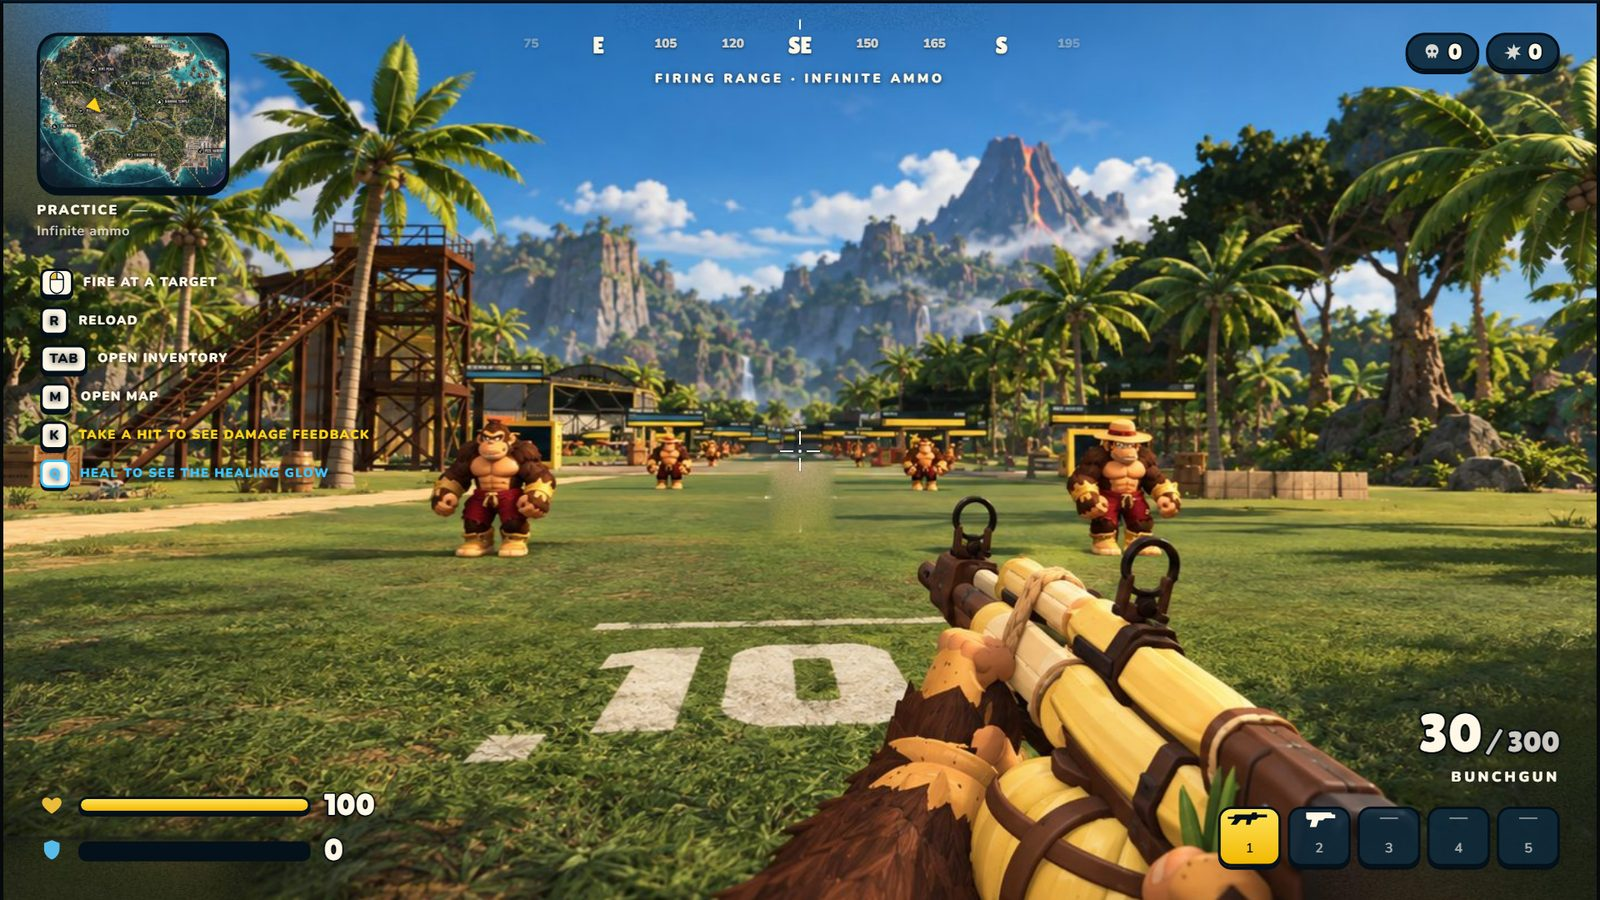
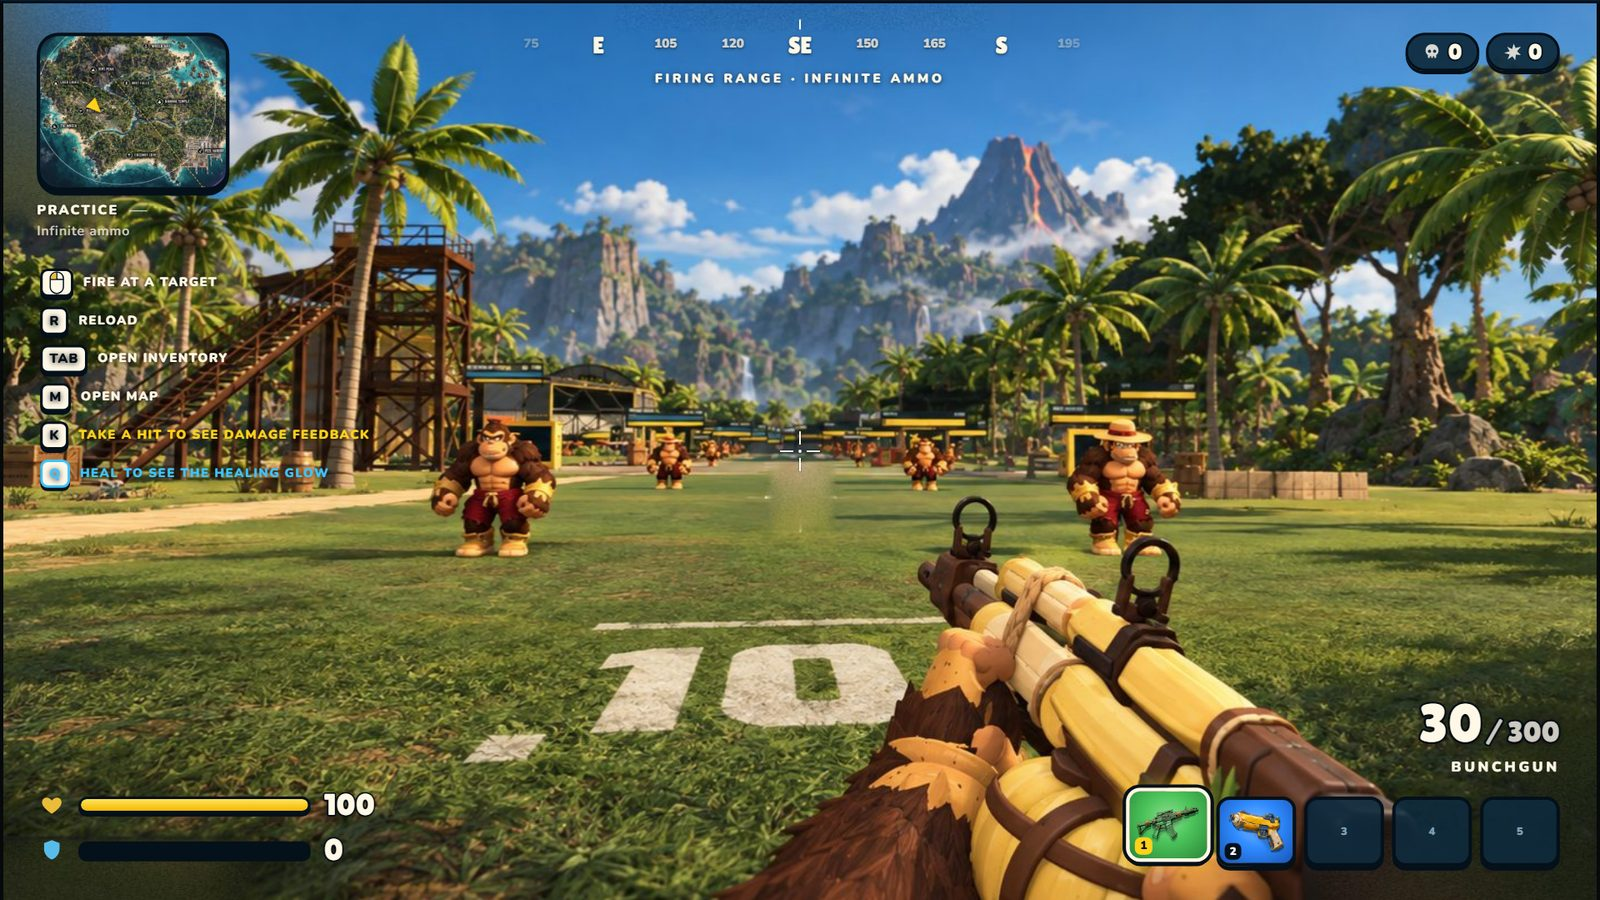
Toon HUD weapon slots show item art on rarity colours
Like the original HUD: each slot shows the weapon's art on a green
(common) or blue (rare) tile; the equipped slot lifts with an ivory
outline, yellow glow and yellow number chip. Premium keeps its line
icons. Design system docs, the Codex bundle and Toon screens updated.

Changed region(s): [[0.6875, 0.7778, 1.0, 0.9644]]

diff --git a/css/toon.css b/css/toon.css
@@ -346,3 +346,17 @@ html[data-ds="toon"] .stage .rp-send .k-btn.primary { font-size: 34px; }
 .topbar-nav { flex-wrap: nowrap; }
 @media (max-width: 900px) { .topbar { flex-wrap: wrap; } .topbar-nav { flex-wrap: wrap; } }
 .ds-switch select { padding: 5px 8px; }
+
+/* HUD weapon slots: item art on a rarity-coloured tile, like the original HUD */
+html[data-ds="toon"] .stage .slots { gap: 10px; align-items: flex-end; }
+html[data-ds="toon"] .stage .slot { position: relative; width: 96px; height: 84px; padding: 0; display: block; overflow: hidden;
+  border: 4px solid var(--o); border-radius: 16px; box-shadow: 0 5px 0 var(--o); background: rgba(14,42,61,.88);
+  transition: transform 160ms var(--kong-ease), box-shadow 160ms; }
+html[data-ds="toon"] .stage .slot.r-common { background: radial-gradient(ellipse 70% 80% at 50% 40%, #8BE08F 0%, #4CC35A 45%, #2C8A3A 100%); }
+html[data-ds="toon"] .stage .slot.r-rare { background: radial-gradient(ellipse 70% 80% at 50% 40%, #7FB8FF 0%, #2F8BFF 45%, #1A56B8 100%); }
+html[data-ds="toon"] .stage .slot .ic { display: none; }
+html[data-ds="toon"] .stage .slot .slot-art { display: block; position: absolute; left: 6px; right: 6px; top: 8px; bottom: 16px; width: calc(100% - 12px); height: calc(100% - 24px); object-fit: contain; filter: drop-shadow(0 3px 0 rgba(4,16,26,.55)); }
+html[data-ds="toon"] .stage .slot .slot-n { position: absolute; left: 6px; bottom: 4px; min-width: 20px; height: 20px; padding: 0 5px; border-radius: 7px; background: var(--o); color: #fff; font: 900 13px/20px var(--k-ui); text-align: center; }
+html[data-ds="toon"] .stage .slot.empty .slot-n { left: 50%; transform: translateX(-50%); bottom: 50%; margin-bottom: -10px; background: transparent; color: #7FA3BC; }
+html[data-ds="toon"] .stage .slot.on { background-color: transparent; color: inherit; transform: translateY(-8px) scale(1.06); border-color: #FFF8E7; box-shadow: 0 5px 0 var(--o), 0 0 0 4px var(--o), 0 0 22px rgba(255,210,26,.7); }
+html[data-ds="toon"] .stage .slot.on .slot-n { background: var(--kong-accent); color: var(--o); }

diff --git a/design/kong-toon/reference/toon-prototype.css b/design/kong-toon/reference/toon-prototype.css
@@ -346,3 +346,17 @@ html[data-ds="toon"] .stage .rp-send .k-btn.primary { font-size: 34px; }
 .topbar-nav { flex-wrap: nowrap; }
 @media (max-width: 900px) { .topbar { flex-wrap: wrap; } .topbar-nav { flex-wrap: wrap; } }
 .ds-switch select { padding: 5px 8px; }
+
+/* HUD weapon slots: item art on a rarity-coloured tile, like the original HUD */
+html[data-ds="toon"] .stage .slots { gap: 10px; align-items: flex-end; }
+html[data-ds="toon"] .stage .slot { position: relative; width: 96px; height: 84px; padding: 0; display: block; overflow: hidden;
+  border: 4px solid var(--o); border-radius: 16px; box-shadow: 0 5px 0 var(--o); background: rgba(14,42,61,.88);
+  transition: transform 160ms var(--kong-ease), box-shadow 160ms; }
+html[data-ds="toon"] .stage .slot.r-common { background: radial-gradient(ellipse 70% 80% at 50% 40%, #8BE08F 0%, #4CC35A 45%, #2C8A3A 100%); }
+html[data-ds="toon"] .stage .slot.r-rare { background: radial-gradient(ellipse 70% 80% at 50% 40%, #7FB8FF 0%, #2F8BFF 45%, #1A56B8 100%); }
+html[data-ds="toon"] .stage .slot .ic { display: none; }
+html[data-ds="toon"] .stage .slot .slot-art { display: block; position: absolute; left: 6px; right: 6px; top: 8px; bottom: 16px; width: calc(100% - 12px); height: calc(100% - 24px); object-fit: contain; filter: drop-shadow(0 3px 0 rgba(4,16,26,.55)); }
+html[data-ds="toon"] .stage .slot .slot-n { position: absolute; left: 6px; bottom: 4px; min-width: 20px; height: 20px; padding: 0 5px; border-radius: 7px; background: var(--o); color: #fff; font: 900 13px/20px var(--k-ui); text-align: center; }
+html[data-ds="toon"] .stage .slot.empty .slot-n { left: 50%; transform: translateX(-50%); bottom: 50%; margin-bottom: -10px; background: transparent; color: #7FA3BC; }
+html[data-ds="toon"] .stage .slot.on { background-color: transparent; color: inherit; transform: translateY(-8px) scale(1.06); border-color: #FFF8E7; box-shadow: 0 5px 0 var(--o), 0 0 0 4px var(--o), 0 0 22px rgba(255,210,26,.7); }
+html[data-ds="toon"] .stage .slot.on .slot-n { background: var(--kong-accent); color: var(--o); }

diff --git a/index.html b/index.html
@@ -7,9 +7,9 @@
 <link rel="preconnect" href="https://fonts.googleapis.com">
 <link rel="preconnect" href="https://fonts.gstatic.com" crossorigin>
 <link rel="stylesheet" href="https://fonts.googleapis.com/css2?family=Changa+One:ital@0;1&family=Lilita+One&family=Nunito:wght@600;700;800;900&family=Barlow:wght@400;500;600;700&family=Barlow+Semi+Condensed:wght@500;600;700&family=JetBrains+Mono:wght@400;500&display=swap">
-<link rel="stylesheet" href="css/site.css?v=20261012b">
-<link rel="stylesheet" href="css/game.css?v=20261012b">
-<link rel="stylesheet" href="css/toon.css?v=20261012b">
+<link rel="stylesheet" href="css/site.css?v=20261012c">
+<link rel="stylesheet" href="css/game.css?v=20261012c">
+<link rel="stylesheet" href="css/toon.css?v=20261012c">
 
 <div id="app">
   <header class="topbar" id="topbar">
@@ -74,7 +74,7 @@
 
 <script src="https://cdnjs.cloudflare.com/ajax/libs/marked/12.0.2/marked.min.js"></script>
 <script src="https://cdnjs.cloudflare.com/ajax/libs/jszip/3.10.1/jszip.min.js"></script>
-<script src="js/data.js?v=20261012b"></script>
-<script src="js/gameplay.js?v=20261012b"></script>
-<script src="js/game.js?v=20261012b"></script>
-<script src="js/site.js?v=20261012b"></script>
+<script src="js/data.js?v=20261012c"></script>
+<script src="js/gameplay.js?v=20261012c"></script>
+<script src="js/game.js?v=20261012c"></script>
+<script src="js/site.js?v=20261012c"></script>

diff --git a/js/game.js b/js/game.js
@@ -550,7 +550,7 @@ window.Game = (function () {
     } else { hudEls.ammo.innerHTML = `<b>–</b>`; hudEls.wn.textContent = "Unarmed"; }
     hudEls.rl.hidden = !(S.reloadUntil > now());
     if (full) {
-      hudEls.slots.innerHTML = S.inv.map((id, i) => `<div class="slot ${id && id === S.equipped ? "on" : ""}"><div class="ic">${slotIcon(id)}</div>${i + 1}</div>`).join("");
+      hudEls.slots.innerHTML = S.inv.map((id, i) => { const it = id && K.items[id]; return `<div class="slot ${id && id === S.equipped ? "on" : ""} ${it ? "r-" + it.rarity.toLowerCase() : "empty"}"><div class="ic">${slotIcon(id)}</div>${it ? `<img class="slot-art" src="${it.img}" alt="">` : ""}<span class="slot-n">${i + 1}</span>${it && S.mode !== "range" ? "" : ""}</div>`; }).join("");
       if (S.marker) { hudEls.mpin.hidden = false; hudEls.mpin.style.left = (S.marker.x - 300) / 880 * 232 + "px"; hudEls.mpin.style.top = (S.marker.y - 120) / 720 * 190 + "px"; } else hudEls.mpin.hidden = true;
       renderHints();
     }

diff --git a/css/game.css b/css/game.css
@@ -698,3 +698,6 @@
 /* Empty layers must not swallow clicks: only their content is interactive. */
 #k-hud, #k-over { pointer-events: none; }
 #k-over > * { pointer-events: auto; }
+
+/* weapon slot art: Premium keeps the line icons; Toon shows item art on rarity tiles */
+.slot .slot-art { display: none; }

diff --git a/design/kong-toon/reference/base-components.css b/design/kong-toon/reference/base-components.css
@@ -698,3 +698,6 @@
 /* Empty layers must not swallow clicks: only their content is interactive. */
 #k-hud, #k-over { pointer-events: none; }
 #k-over > * { pointer-events: auto; }
+
+/* weapon slot art: Premium keeps the line icons; Toon shows item art on rarity tiles */
+.slot .slot-art { display: none; }

diff --git a/design/kong-toon/design-system.md b/design/kong-toon/design-system.md
@@ -89,7 +89,7 @@ Ivory caps with dark text, 3px outline and a 4px drop. Accent keycaps (Enter, Es
 The whole card is filled with its rarity colour fading into navy, like the original game: green for common, blue for rare. A white glow behind the art, a pill rarity label, a numbered index chip. Selected = ivory outline plus a soft yellow glow; Equipped = yellow pill badge. Empty slots are dashed and quiet.
 
 ### HUD
-Health and shield are thick outlined capsule bars (yellow and blue gradients) with outlined Lilita numbers. Weapon slots are outlined tiles; the active one turns yellow. Match stats are rounded outlined chips: squads and players left on top, then kills, assists, squad kills and damage. Minimap gets rounded outlined corners.
+Health and shield are thick outlined capsule bars (yellow and blue gradients) with outlined Lilita numbers. Weapon slots are outlined tiles showing the weapon's art on its rarity colour (green common, blue rare, radial gradient), like the original HUD. The equipped slot lifts 8px, scales up slightly and gets an ivory outline with a soft yellow glow; its slot number chip turns yellow. Empty slots are quiet navy tiles with a centred number. Match stats are rounded outlined chips: squads and players left on top, then kills, assists, squad kills and damage. Minimap gets rounded outlined corners.
 
 ### Feedback (same rules as Premium)
 - Damage is always red: arc around the crosshair toward the shooter, red edge glow, flinch, slow red vignette under 30 health.

diff --git a/downloads/kong-design-system-toon.md b/downloads/kong-design-system-toon.md
@@ -89,7 +89,7 @@ Ivory caps with dark text, 3px outline and a 4px drop. Accent keycaps (Enter, Es
 The whole card is filled with its rarity colour fading into navy, like the original game: green for common, blue for rare. A white glow behind the art, a pill rarity label, a numbered index chip. Selected = ivory outline plus a soft yellow glow; Equipped = yellow pill badge. Empty slots are dashed and quiet.
 
 ### HUD
-Health and shield are thick outlined capsule bars (yellow and blue gradients) with outlined Lilita numbers. Weapon slots are outlined tiles; the active one turns yellow. Match stats are rounded outlined chips: squads and players left on top, then kills, assists, squad kills and damage. Minimap gets rounded outlined corners.
+Health and shield are thick outlined capsule bars (yellow and blue gradients) with outlined Lilita numbers. Weapon slots are outlined tiles showing the weapon's art on its rarity colour (green common, blue rare, radial gradient), like the original HUD. The equipped slot lifts 8px, scales up slightly and gets an ivory outline with a soft yellow glow; its slot number chip turns yellow. Empty slots are quiet navy tiles with a centred number. Match stats are rounded outlined chips: squads and players left on top, then kills, assists, squad kills and damage. Minimap gets rounded outlined corners.
 
 ### Feedback (same rules as Premium)
 - Damage is always red: arc around the crosshair toward the shooter, red edge glow, flinch, slow red vignette under 30 health.
